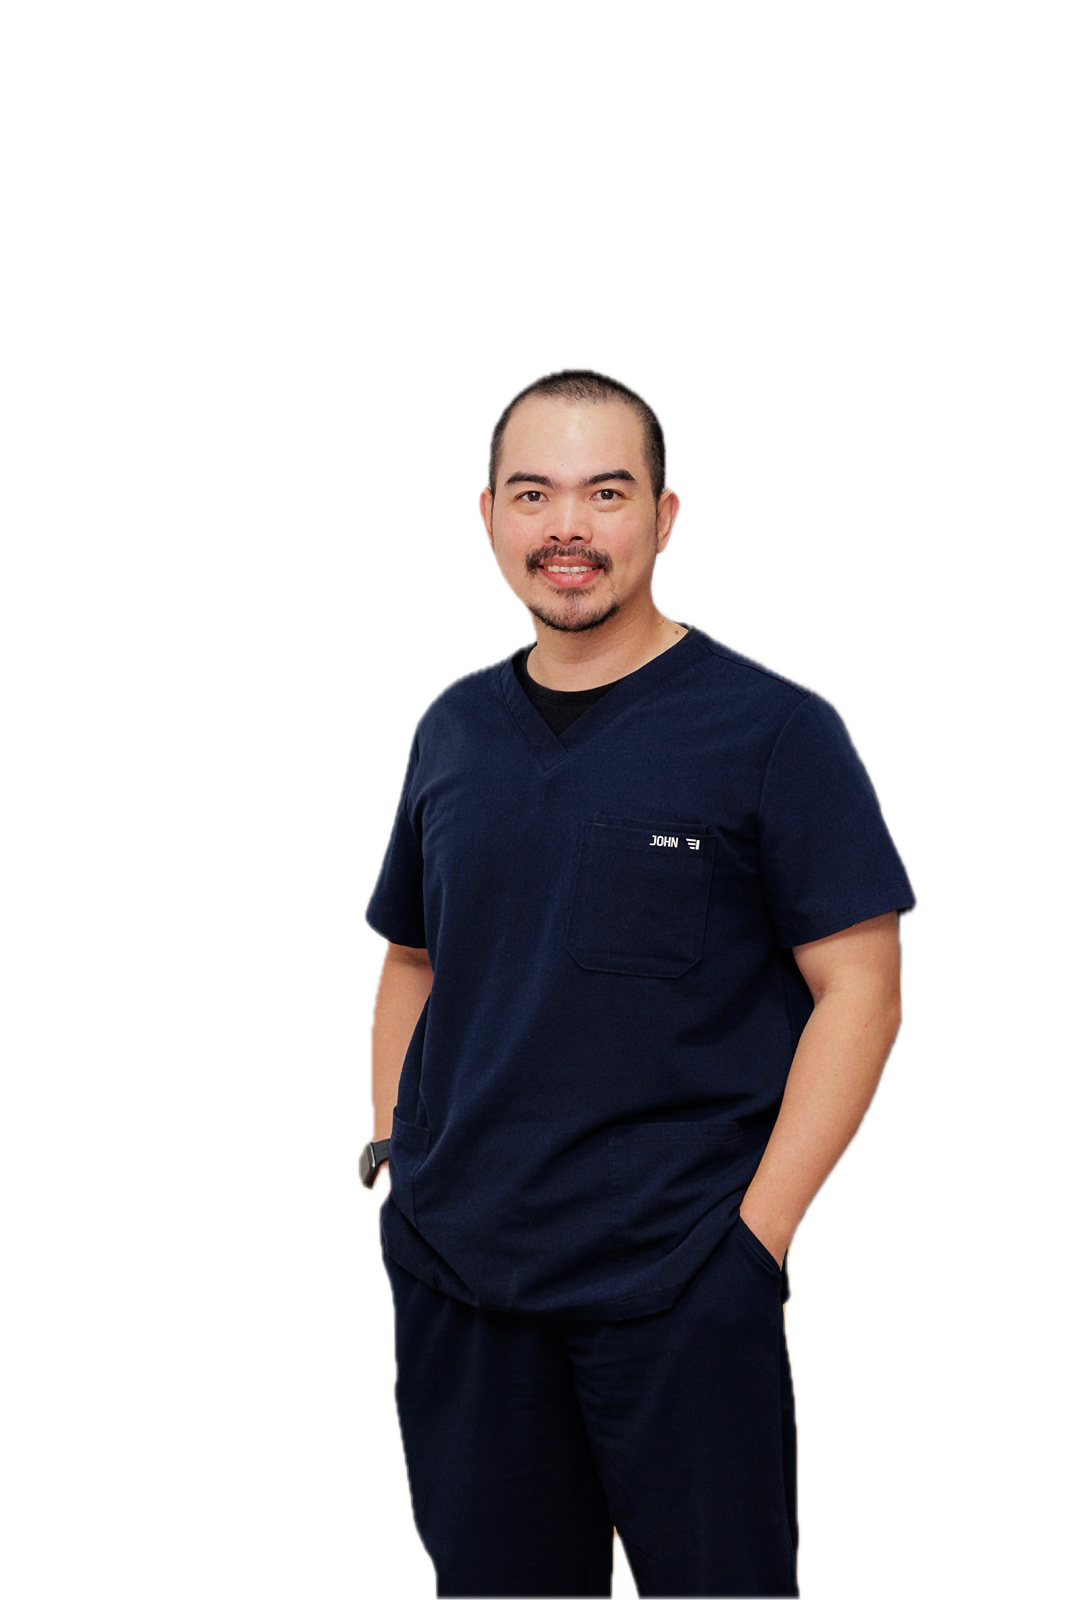
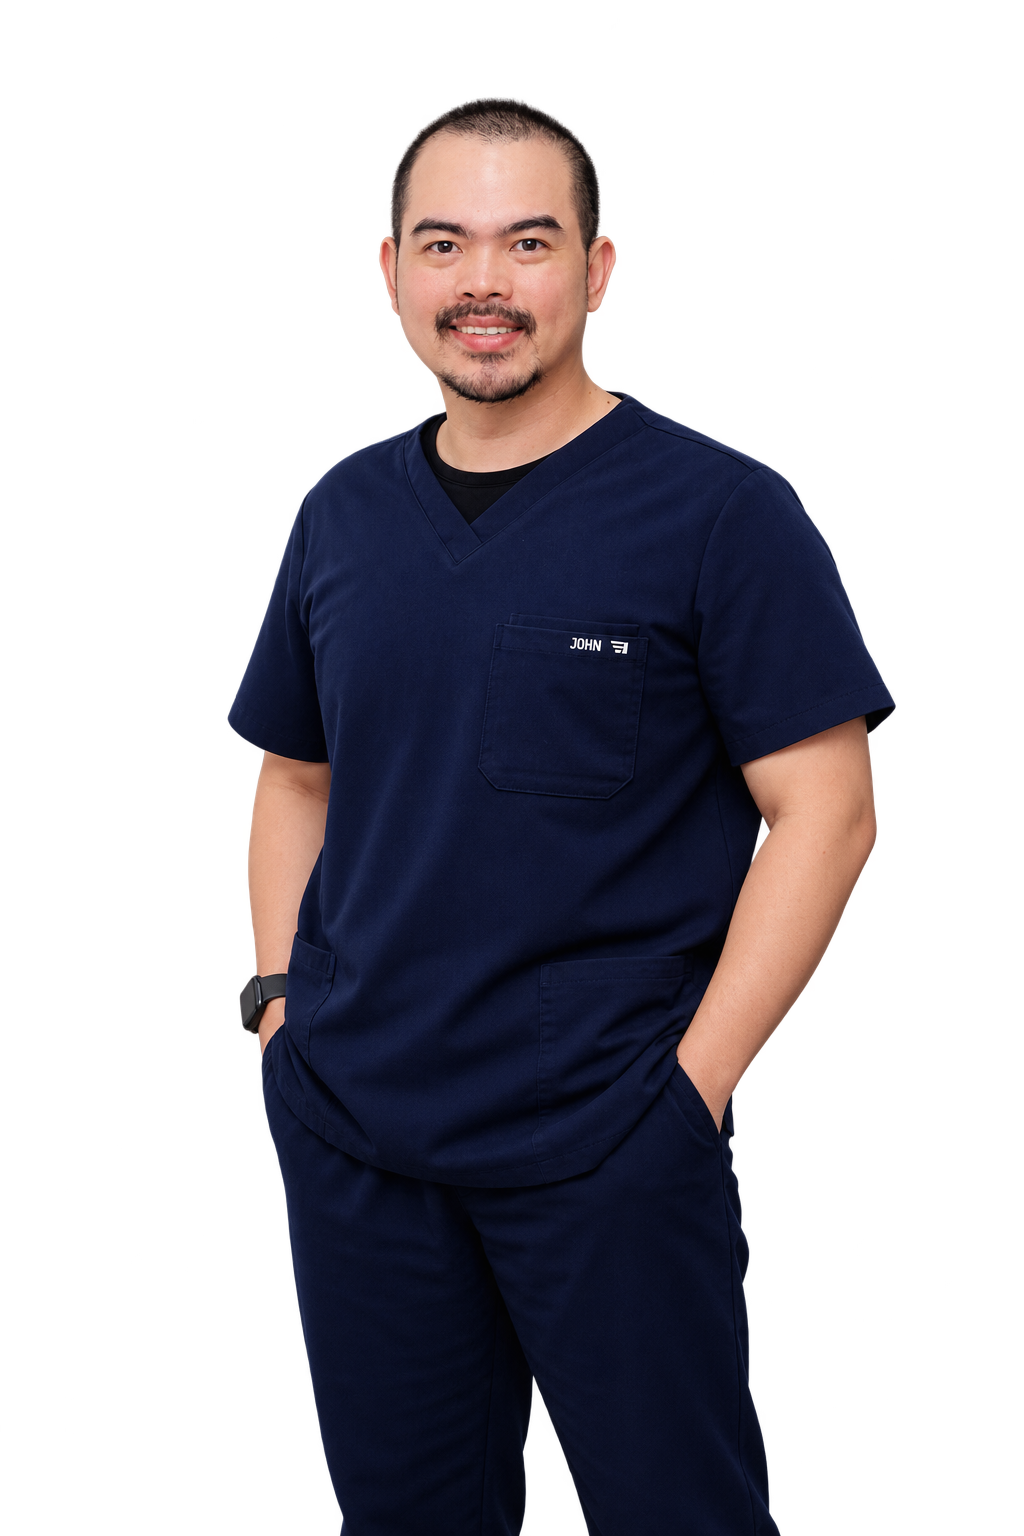
feat: enhance hero section with dynamic typing effect and cursor animation
- Implement typed hero statement with character reveal and blinking caret
- Add cursor light blob effect with ripple animation for interactive experience
- Update hero image for improved visual representation
- Adjust hero layout and styling for better responsiveness and aesthetics

diff --git a/index.html b/index.html
@@ -172,15 +172,27 @@
     .hero .lead { margin-top: 24px; font-size: 1.14rem; }
     .hero-cta { display: flex; flex-wrap: wrap; gap: 14px; margin-top: 34px; }
 
-    /* Cutout figure: transparent-background portrait standing on the carousel edge. */
-    .hero-figure {
-      margin: 0; align-self: end; display: flex; justify-content: flex-end;
+    /* Typed hero statement: chars hidden until typed, caret blinks like a vitals readout. */
+    .hero h1 .ch { opacity: 0; }
+    .hero h1 .ch.on { opacity: 1; }
+    .caret {
+      display: inline-block; width: 3px; height: 0.82em; margin-left: 8px;
+      background: var(--accent); transform: translateY(0.08em);
+      animation: caret-blink 1.1s steps(1) infinite;
     }
-    .hero-figure img { width: auto; height: auto; max-width: 100%; max-height: clamp(460px, 70vh, 640px); }
+    @keyframes caret-blink { 50% { opacity: 0; } }
+    .hero-trail { position: absolute; inset: 0; z-index: 0; pointer-events: none; }
+
+    /* Cutout figure: oversized, anchored to the grid top so the hero's bottom edge
+       crops the figure just below the waist — it steps out of the carousel. */
+    .hero-figure {
+      margin: 0; align-self: start; height: 0; display: flex; justify-content: flex-end;
+    }
+    .hero-figure img { width: auto; max-width: none; height: clamp(700px, 104vh, 950px); }
     @media (max-width: 880px) {
       .hero-grid { grid-template-columns: 1fr; min-height: 0; gap: 36px; }
-      .hero-figure { order: 0; justify-content: flex-start; margin-left: 24px; }
-      .hero-figure img { max-height: 46vh; }
+      .hero-figure { order: 0; height: auto; justify-content: flex-start; margin-left: 24px; }
+      .hero-figure img { max-width: 100%; height: auto; max-height: 46vh; }
     }
 
     /* ============ MARQUEE ============ */
@@ -539,6 +551,7 @@
   <main id="main">
     <!-- HERO -->
     <section class="hero">
+      <canvas class="hero-trail" id="hero-trail" aria-hidden="true"></canvas>
       <div class="wrap hero-grid">
         <div>
           <p class="role reveal"><span class="pill-dot" aria-hidden="true"></span> Registered Nurse <b>·</b> Software Builder</p>
@@ -550,7 +563,7 @@
           </div>
         </div>
         <figure class="hero-figure reveal" style="--d:180ms">
-          <img src="photos/hero-side.webp" alt="Portrait of John Saenz, Registered Nurse and founder of ClinicIQ Solutions" loading="eager" fetchpriority="high" decoding="async" width="869" height="1024" />
+          <img src="photos/hero-bodyshot2.webp" alt="Portrait of John Saenz, Registered Nurse and founder of ClinicIQ Solutions" loading="eager" fetchpriority="high" decoding="async" width="815" height="1300" />
         </figure>
       </div>
     </section>
@@ -755,6 +768,96 @@
           });
         }, { threshold: 0.12, rootMargin: '0px 0px -40px 0px' });
         els.forEach(function (el) { io.observe(el); });
+      }
+
+      // ---- Hero: typed statement ----
+      // No JS or reduced motion: the heading renders complete, no caret.
+      var h1 = document.querySelector('.hero h1');
+      if (h1 && !reduce) {
+        var chars = [];
+        var caret = document.createElement('span');
+        caret.className = 'caret'; caret.setAttribute('aria-hidden', 'true');
+        (function wrap(parent) {
+          Array.prototype.slice.call(parent.childNodes).forEach(function (node) {
+            if (node.nodeType === 3) {
+              var frag = document.createDocumentFragment();
+              node.textContent.split('').forEach(function (c) {
+                if (c === ' ') { frag.appendChild(document.createTextNode(' ')); return; }
+                var s = document.createElement('span');
+                s.className = 'ch'; s.textContent = c;
+                frag.appendChild(s); chars.push(s);
+              });
+              parent.replaceChild(frag, node);
+            } else if (node.nodeType === 1 && !(node.classList && node.classList.contains('sr-only'))) {
+              wrap(node);
+            }
+          });
+        })(h1);
+        h1.appendChild(caret);
+        var ci = 0;
+        if (chars.length) chars[0].before(caret);
+        setTimeout(function tick() {
+          if (ci < chars.length) {
+            var ch = chars[ci++];
+            ch.classList.add('on');
+            ch.after(caret);
+            setTimeout(tick, 42 + Math.random() * 46);
+          }
+        }, 850);
+      }
+
+      // ---- Hero: cursor light blob with ripple ----
+      // A soft teal glow eases behind the cursor; movement emits expanding ripple rings.
+      // Fine pointers only; the loop fades out and stops when idle.
+      var hero = document.querySelector('.hero');
+      var canvas = document.getElementById('hero-trail');
+      if (canvas && hero && !reduce && window.matchMedia('(pointer: fine)').matches) {
+        var ctx = canvas.getContext('2d');
+        var dpr = window.devicePixelRatio || 1;
+        var mx = 0, my = 0, have = false, bx = 0, by = 0, blobA = 0;
+        var ripples = [], running = false, lastMove = 0, lastRipple = null;
+        function fit() {
+          canvas.width = hero.clientWidth * dpr; canvas.height = hero.clientHeight * dpr;
+          ctx.setTransform(dpr, 0, 0, dpr, 0, 0);
+        }
+        fit();
+        window.addEventListener('resize', fit);
+        hero.addEventListener('pointermove', function (e) {
+          var r = hero.getBoundingClientRect();
+          mx = e.clientX - r.left; my = e.clientY - r.top;
+          if (!have) { have = true; bx = mx; by = my; }
+          lastMove = performance.now();
+          if (!running) { running = true; requestAnimationFrame(frame); }
+        });
+        var R_LIFE = 900, R_MAX = 85;
+        function frame(now) {
+          var idle = now - lastMove > 900;
+          bx += (mx - bx) * 0.14;
+          by += (my - by) * 0.14;
+          blobA += ((idle ? 0 : 1) - blobA) * 0.08;
+          if (!idle && (!lastRipple || Math.hypot(mx - lastRipple.x, my - lastRipple.y) > 60)) {
+            ripples.push({ x: mx, y: my, t: now });
+            lastRipple = { x: mx, y: my };
+          }
+          ctx.clearRect(0, 0, hero.clientWidth, hero.clientHeight);
+          ripples = ripples.filter(function (p) { return now - p.t < R_LIFE; });
+          ripples.forEach(function (p) {
+            var k = (now - p.t) / R_LIFE;
+            ctx.strokeStyle = 'rgba(95,212,195,' + (0.35 * (1 - k)).toFixed(3) + ')';
+            ctx.lineWidth = 1.5;
+            ctx.beginPath(); ctx.arc(p.x, p.y, 10 + R_MAX * k, 0, 6.2832); ctx.stroke();
+          });
+          if (blobA > 0.01 || !idle) {
+            var g = ctx.createRadialGradient(bx, by, 0, bx, by, 130);
+            g.addColorStop(0, 'rgba(95,212,195,' + (0.14 * blobA).toFixed(3) + ')');
+            g.addColorStop(0.5, 'rgba(95,212,195,' + (0.05 * blobA).toFixed(3) + ')');
+            g.addColorStop(1, 'rgba(95,212,195,0)');
+            ctx.fillStyle = g;
+            ctx.beginPath(); ctx.arc(bx, by, 130, 0, 6.2832); ctx.fill();
+          }
+          if (blobA > 0.01 || ripples.length) requestAnimationFrame(frame);
+          else running = false;
+        }
       }
 
       // ---- Nav border on scroll ----

diff --git a/DESIGN.md b/DESIGN.md
@@ -1,0 +1,189 @@
+---
+name: John Saenz — ClinicIQ Solutions
+description: Dark clinical portfolio for a nurse-built healthcare software practice.
+colors:
+  bg: "#0a1011"
+  bg-elev: "#0e1719"
+  surface: "#121d1f"
+  surface-2: "#182528"
+  line: "rgba(180, 205, 215, 0.10)"
+  line-strong: "rgba(180, 205, 215, 0.20)"
+  ink: "#eaf2f4"
+  ink-soft: "#c9d6d9"
+  muted: "#8ea1a6"
+  muted-2: "#6b7e83"
+  vitals-teal: "#5fd4c3"
+  vitals-teal-deep: "#2fae9d"
+  on-accent: "#06110f"
+  warm: "#e8b87a"
+typography:
+  display:
+    fontFamily: "Sora, system-ui, sans-serif"
+    fontSize: "clamp(2.5rem, 6.4vw, 4.7rem)"
+    fontWeight: 600
+    lineHeight: 1.04
+    letterSpacing: "-0.025em"
+  headline:
+    fontFamily: "Sora, system-ui, sans-serif"
+    fontSize: "clamp(1.9rem, 4.2vw, 3.1rem)"
+    fontWeight: 600
+    lineHeight: 1.04
+    letterSpacing: "-0.025em"
+  title:
+    fontFamily: "Sora, system-ui, sans-serif"
+    fontSize: "1.22rem"
+    fontWeight: 600
+    lineHeight: 1.2
+    letterSpacing: "-0.015em"
+  body:
+    fontFamily: "Geist, system-ui, sans-serif"
+    fontSize: "1rem"
+    fontWeight: 400
+    lineHeight: 1.65
+  accent-serif:
+    fontFamily: "Instrument Serif, Georgia, serif"
+    fontSize: "inherit"
+    fontWeight: 400
+    lineHeight: 1.4
+    letterSpacing: "0"
+rounded:
+  sm: "10px"
+  md: "16px"
+  lg: "22px"
+  pill: "999px"
+spacing:
+  sm: "18px"
+  md: "30px"
+  lg: "48px"
+components:
+  button-primary:
+    backgroundColor: "{colors.vitals-teal}"
+    textColor: "{colors.on-accent}"
+    rounded: "{rounded.pill}"
+    padding: "13px 22px"
+  button-primary-hover:
+    backgroundColor: "#7ee0d1"
+  button-ghost:
+    backgroundColor: "transparent"
+    textColor: "{colors.ink}"
+    rounded: "{rounded.pill}"
+    padding: "13px 22px"
+  card:
+    backgroundColor: "{colors.surface}"
+    rounded: "{rounded.lg}"
+    padding: "30px"
+  stat:
+    backgroundColor: "{colors.surface}"
+    rounded: "{rounded.lg}"
+    padding: "26px"
+---
+
+# Design System: John Saenz — ClinicIQ Solutions
+
+## Overview
+
+**Creative North Star: "The Clinical Instrument"**
+
+The site reads like a well-made medical instrument: near-black teal surfaces, hairline borders, and a single luminous aqua that behaves like a vitals readout — precise, purposeful, never decorative. Restraint is the register of clinical credibility; the design earns trust by not performing.
+
+Density is comfortable and editorial rather than dashboard-like. One motion grammar (a quiet scroll-reveal) and one accent family carry the whole page. The serif italic accent (Instrument Serif) is the human voice inside the instrument — a nurse's handwriting on a chart, used sparingly inside sans headings and pull quotes.
+
+**Key Characteristics:**
+- Deep near-black teal field; colour arrives only as Vitals Teal and the text ramp.
+- Sora display / Geist body / Instrument Serif italic accents.
+- Hairline borders and tonal surfaces instead of shadows for most depth.
+- Cutout hero portrait standing flush on the sponsor marquee.
+- Flat, quiet surfaces; state changes are border/colour/opacity only, no lifts or glows.
+
+## Colors
+
+One accent family locked to the palette; everything else is the neutral text ramp.
+
+### Primary
+- **Vitals Teal** (#5fd4c3): the single accent. Links' hover state, primary button, focus rings, selection, numerals, heading accent words. Rarity is the point.
+- **Vitals Teal, Deep** (#2fae9d): the accent's readable-text form on dark surfaces (brand surname, role pill emphasis, tag labels).
+
+### Neutral
+- **Instrument Black** (#0a1011): page background.
+- **Panel Deep** (#0e1719) / **Panel** (#121d1f) / **Panel Raised** (#182528): tonal surface ladder for cards, marquee strip, stat tiles.
+- **Ink** (#eaf2f4) → **Ink Soft** (#c9d6d9) → **Muted** (#8ea1a6): text ramp.
+- **Hairline** (rgba(180,205,215,0.10)) and **Hairline Strong** (0.20): the only border colours.
+- **Chart Amber** (#e8b87a): a sparing warm counterpoint; currently unused at rest and available only for genuine emphasis.
+
+### Named Rules
+**The One Readout Rule.** Vitals Teal appears as fill on at most one element per viewport region (the primary button); everywhere else it is hairline weight or text.
+
+**The Flat Field Rule.** No gradient washes, glows, or mesh pools. The background is a solid Instrument Black; imagery blends by matching it exactly.
+
+## Typography
+
+**Display Font:** Sora (system-ui fallback)
+**Body Font:** Geist (system-ui fallback)
+**Accent Font:** Instrument Serif italic (Georgia fallback)
+
+**Character:** Geometric, instrument-precise sans for structure; the serif italic supplies warmth in short phrases only.
+
+### Hierarchy
+- **Display** (600, clamp(2.5rem, 6.4vw, 4.7rem), 1.04): hero H1 only.
+- **Headline** (600, clamp(1.9rem, 4.2vw, 3.1rem), 1.04): section H2s.
+- **Title** (600, 1.22rem, 1.2): card and principle H3s.
+- **Body** (400, 1rem / lead 1.08–1.14rem, 1.65): paragraphs; leads capped at 54–56ch.
+- **Label** (600, 0.72rem, 0.16em, uppercase): product tags only — no eyebrow/kicker labels above headings.
+
+### Named Rules
+**The Chart Margin Rule.** Instrument Serif italic appears at most once per heading, as one short phrase — the accent is a signature, not a pattern to scale.
+
+## Layout
+
+Single page, single column flow. Container 1180px with 28px inline padding. Sections use `padding-block: clamp(72px, 10vw, 124px)`. The hero is a two-column even grid (text / portrait); the portrait's feet land flush on the sponsor marquee below (hero bottom padding 0). Bento grid for products (7/5 columns, 1-column below 820px). Approach uses a sticky left column at ≥880px. Stats are a 4-up grid (2-up below 820px). Breakpoints: 880px, 820px, 760px.
+
+## Elevation & Depth
+
+Hybrid: tonal layering does the everyday work (bg → surface → surface-2); shadows appear only as two ambient values on the largest floating surfaces (`--shadow-lg` on hero/contact-scale elements). No zero-offset glows, no colored halos.
+
+### Shadow Vocabulary
+- **Ambient Large** (`0 1px 0 rgba(255,255,255,0.04) inset, 0 40px 80px -40px rgba(0,0,0,0.75)`): contact card and hero-scale elements only.
+
+## Shapes
+
+Pills for buttons and the role chip; generous rounded rectangles for cards (22px), thumbs (16px), inner details (10px). Hairline 1px borders throughout. Portrait photography is presented as an honest rectangle whose background matches Instrument Black exactly, or as a clean alpha cutout — never gradient-melted into the page.
+
+## Components
+
+### Buttons
+- **Shape:** full pill (999px), padding 13px 22px, Sora 600 0.96rem.
+- **Primary:** Vitals Teal fill, on-accent ink; hover brightens to #7ee0d1. No lift, no glow.
+- **Ghost:** transparent, Hairline Strong border, ink text; hover border and text go teal.
+- **Focus:** 2px teal outline, 3px offset.
+
+### Cards
+- **Corner:** 22px radius, 30px padding, Panel background, Hairline border.
+- **Hover:** border strengthens to Hairline Strong only.
+- **Featured card** (MedPlan AI): Panel Raised background with teal-tinted icon tile; no gradient.
+
+### Stat Tiles
+- 26px padding, Panel background, Hairline border; Sora 700 large numeral with teal unit.
+
+### Navigation
+- Sticky, 70px, translucent bg-blur background that gains a Hairline border on scroll. Links are muted, teal underline wipe on hover. Mobile shows brand + CTA only.
+
+### Marquee / Sponsor Strip
+- Full-width Panel Raised band with hairline block borders; logos greyscale-inverted at 0.8 opacity, full opacity on hover; pauses on hover.
+
+### Hero Portrait
+- Photography anchored to the section bottom, aspect preserved (never stretched), sized `max-height: clamp(460px, 70vh, 640px)`; background flattened to Instrument Black so it dissolves into the page.
+
+## Do's and Don'ts
+
+### Do:
+- **Do** keep Vitals Teal rare: one filled element per region, otherwise hairlines and text.
+- **Do** match photographic backgrounds to Instrument Black exactly when flattening cutouts.
+- **Do** preserve aspect ratio on the hero portrait; size via max-height with auto width.
+- **Do** keep `prefers-reduced-motion` handling on any motion added.
+
+### Don't:
+- **Don't** add gradient washes, mesh backgrounds, grain overlays, glows, or glass pills.
+- **Don't** place eyebrow/kicker labels above headings; the heading carries its own weight.
+- **Don't** animate numbers (count-ups) or add scroll-progress/spotlight chrome.
+- **Don't** use any second accent hue; Chart Amber requires an explicit user request.
+- **Don't** use more than one serif-italic phrase per heading.

diff --git a/PRODUCT.md b/PRODUCT.md
@@ -1,0 +1,51 @@
+# Product
+
+<!-- impeccable:product-schema 1 -->
+
+## Platform
+
+web
+
+## Users
+
+Primary: Australian general-practice decision-makers — practice managers, GPs, and practice nurses — evaluating whether ClinicIQ Solutions can remove administrative burden from their clinic. Secondary: potential partners. They arrive with no prior knowledge of John and need credibility fast.
+
+## Product Purpose
+
+A personal portfolio site for John Saenz (Registered Nurse and software founder) that establishes trust through lived clinical experience and routes visitors to ClinicIQ Solutions (cliniciq.com.au). Success = a clinic decision-maker clicks through to contact ClinicIQ.
+
+## Positioning
+
+Healthcare automation designed and tested inside real GP clinics by a nurse who works in them — the tools come from lived workflow pain, not a brief.
+
+## Operating Context
+
+Single-page static site (one `index.html`), served as-is; no build step. English (Australian spellings). Visitors browse on desktop and mobile; contact happens off-site at cliniciq.com.au or LinkedIn.
+
+## Capabilities and Constraints
+
+- Sections: hero, sponsor/partner logo marquee, thesis, four products (NursePod, cIQventory, PIPQI, MedPlan AI), approach, credentials, contact.
+- MedPlan AI must always carry the "decision support, not a diagnostic or therapeutic device" qualifier.
+- No forms, no backend, no analytics — external links only.
+
+## Brand Commitments
+
+- Name and business: John Saenz / ClinicIQ Solutions, Wollongong NSW, ABN 55 882 511 758.
+- All facts on the site are confirmed correct by the owner (founding 2025, 4 products, 5+ yrs in GP clinics, BIS, Golden Key) and binding.
+- The dark clinical theme (near-black teal surfaces, single aqua accent) is locked; future work refines within it.
+
+## Evidence on Hand
+
+- Portrait photos in `photos/` (hero cutout: `hero-side.png` → `hero-side.webp`).
+- Partner logos in `public/sponsors/`.
+- No testimonials, case studies, or metrics beyond the stat row; do not fabricate any.
+
+## Product Principles
+
+1. Credibility through lived experience — every claim traces to John's actual clinical work.
+2. One accent, one voice — restraint signals clinical professionalism.
+3. Route to conversation, not conversion tricks — the site's job is a credible introduction.
+
+## Accessibility & Inclusion
+
+WCAG-conscious dark theme; maintain contrast ratios and `prefers-reduced-motion` support in all future work.
